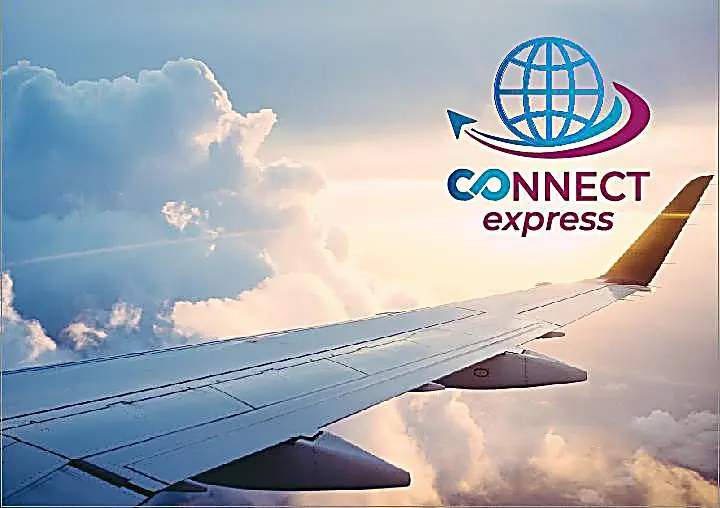
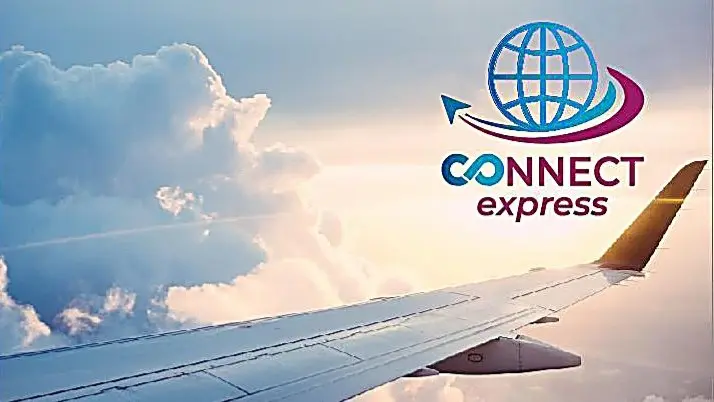
main background

diff --git a/src/components/Footer/Footer.module.css b/src/components/Footer/Footer.module.css
@@ -4,83 +4,6 @@
 
 .footerContainer {
   display: flex;
-  justify-content: space-between;
-  align-items: center;
-  padding: 8px;
-}
-
-.logo {
-  height: 32px;
-  object-fit: contain;
-}
-
-.contacts {
-  display: flex;
-  flex-direction: column;
-  align-items: center;
-  gap: 4px;
-}
-
-.contactItem {
-  display: flex;
-  align-items: center;
-  gap: 8px;
-}
-
-.icon {
-  width: 24px;
-  height: 24px;
-}
-
-.text {
-  font-size: 16px;
-  color: var(--color-input);
-}
-
-@media only screen and (min-width: 768px) {
-  .footerContainer {
-    gap: 8px;
-    padding: 4px 20px;
-  }
-
-  .contacts {
-    flex-direction: row;
-    gap: 16px;
-  }
-
-  .icon {
-    width: 32px;
-    height: 32px;
-  }
-
-  .text {
-    font-size: 18px;
-  }
-}
-
-@media only screen and (min-width: 1440px) {
-  .footerContainer {
-    flex-direction: row;
-    justify-content: space-between;
-    align-items: center;
-    padding: 12px 20px;
-  }
-
-  .icon {
-    width: 40px;
-    height: 40px;
-  }
-
-  .text {
-    font-size: 20px;
-  }
-} */
-.footerSection {
-  background-color: var(--color-background-blue);
-}
-
-.footerContainer {
-  display: flex;
   align-items: center;
   padding: 8px 12px;
   gap: 20px;
@@ -93,22 +16,22 @@
 
 .contacts {
   display: flex;
-  flex-direction: column; /* контакты друг под другом */
-  align-items: flex-start; /* выравнивание по левому краю */
+  flex-direction: column; 
+  align-items: flex-start;
   gap: 4px;
-  margin-left: auto; /* блок контактов к правому краю */
+  margin-left: auto; 
 }
 
 .contactItem {
   display: flex;
   align-items: center;
-  gap: 8px; /* расстояние между иконкой и текстом */
+  gap: 8px;
 }
 
 .icon {
   width: 24px;
   height: 24px;
-  flex-shrink: 0; /* чтобы иконка не сжималась */
+  flex-shrink: 0; 
 }
 
 .text {
@@ -138,6 +61,94 @@
     width: 32px;
     height: 32px;
   }
+  .text {
+    font-size: 18px;
+  }
+} */
+
+.footerSection {
+  background-color: var(--color-background-blue);
+  margin-top: auto;
+}
+
+.footerContainer {
+  display: flex;
+  align-items: center;
+  justify-content: space-between;
+  padding: 8px 12px;
+  gap: 20px;
+  flex-wrap: wrap;
+}
+
+.logo {
+  height: 32px;
+  object-fit: contain;
+}
+
+.contacts {
+  display: flex;
+  flex-direction: column;
+  align-items: flex-start;
+  gap: 4px;
+}
+
+.contactItem {
+  display: flex;
+  align-items: center;
+  gap: 8px;
+}
+
+.icon {
+  width: 24px;
+  height: 24px;
+  flex-shrink: 0;
+}
+
+.text {
+  font-size: 14px;
+  color: var(--color-input);
+  margin: 0;
+}
+
+@media (min-width: 768px) {
+  .footerContainer {
+    padding: 12px 24px;
+    gap: 32px;
+  }
+
+  .contacts {
+    /* flex-direction: row;  */
+    gap: 16px;
+  }
+
+  .logo {
+    height: 36px;
+  }
+
+  .icon {
+    width: 28px;
+    height: 28px;
+  }
+
+  .text {
+    font-size: 16px;
+  }
+}
+
+@media (min-width: 1024px) {
+  .footerContainer {
+    padding: 16px 32px;
+  }
+
+  .logo {
+    height: 40px;
+  }
+
+  .icon {
+    width: 32px;
+    height: 32px;
+  }
+
   .text {
     font-size: 18px;
   }

diff --git a/src/components/Banner/Banner.module.css b/src/components/Banner/Banner.module.css
@@ -1,4 +1,4 @@
-.section {
+/* .section {
   background-image: url("../../assets/images/mainBanner-mobile-with-logo.webp");
   background-size: cover;
   background-position: center;
@@ -18,7 +18,7 @@
   text-align: center;
   color: var(--color-white);
   font-weight: bold;
-  /* -webkit-text-stroke: 2px #1fb4cc; */
+
 
   text-shadow: 3px 3px 0 #1fb4cc, -2px 2px 0 #1fb4cc, 2px -2px 0 #1fb4cc,
     -2px -2px 0 #1fb4cc;
@@ -47,7 +47,6 @@
     background-image: url("../../assets/images/mainBanner-tablet.webp");
     background-size: cover;
     background-position: center;
-    /* padding-left: 64px; */
   }
 }
 
@@ -62,6 +61,80 @@
     background-image: url("../../assets/images/mainBanner.webp");
     background-size: cover;
     background-position: center;
-    /* padding-left: 64px; */
+  }
+} */
+
+.section {
+  /* фон */
+  background-image: url("../../assets/images/mainBanner-mobile-with-logo.webp");
+  background-size: cover;
+  background-position: center;
+  background-repeat: no-repeat;
+
+  min-height: calc(100vh - 56px);
+
+  display: flex;
+  flex-direction: column;
+  justify-content: center;
+  align-items: flex-start;
+
+  padding: 0 16px;
+  color: var(--color-white);
+  text-align: left;
+}
+
+.title {
+  font-size: 2rem;
+  font-weight: bold;
+  /* -webkit-text-stroke: 2px #1fb4cc; */
+  text-shadow: 3px 3px 0 #1fb4cc, -2px 2px 0 #1fb4cc, 2px -2px 0 #1fb4cc,
+    -2px -2px 0 #1fb4cc;
+  margin-bottom: 16px;
+}
+
+.comment {
+  font-weight: 400;
+  font-size: 1rem;
+  line-height: 1.4;
+  color: var(--color-input);
+  padding-bottom: 24px;
+}
+
+/* Tablet */
+@media (min-width: 768px) {
+  .section {
+    background-image: url("../../assets/images/mainBanner-tablet.webp");
+    min-height: calc(100vh - 64px); /* выше header */
+    padding: 0 24px;
+  }
+
+  .title {
+    font-size: 3rem;
+    line-height: 1.2;
+  }
+
+  .comment {
+    font-size: 1.25rem;
+    font-weight: 500;
+    padding-bottom: 30px;
+  }
+}
+
+/* Desktop */
+@media (min-width: 1024px) {
+  .section {
+    background-image: url("../../assets/images/mainBanner.webp");
+    min-height: calc(100vh - 80px); /* учитываем высоту десктопного header */
+    padding: 0 32px;
+  }
+
+  .title {
+    font-size: 4rem;
+  }
+
+  .comment {
+    font-size: 1.5rem;
+    font-weight: 600;
+    padding-bottom: 40px;
   }
 }

diff --git a/src/App.jsx b/src/App.jsx
@@ -18,8 +18,10 @@ import Temperature from "./components/addservices/Temperature.jsx";
 function App() {
   return (
     <Routes>
-      <Route element={<Layout />}>
+      <Route element={<Layout isHome={true} />}>
         <Route path="/" element={<Home />} />
+      </Route>
+      <Route element={<Layout />}>
         <Route path="/services" element={<ServicesPage />} />
         <Route path="/addservices" element={<AddServicesPage />} />
         <Route path="/about" element={<About />} />

diff --git a/src/components/Header/Header.module.css b/src/components/Header/Header.module.css
@@ -2,8 +2,25 @@
   position: sticky;
   top: 0;
   width: 100%;
-  padding: 16px 0;
+  height: 56px;
+  padding: 8px 16px;
   z-index: 1000;
   background-color: var(--color-background);
   box-shadow: 0 2px 4px rgba(0, 0, 0, 0.1);
+  display: flex;
+  align-items: center;
+}
+
+@media (min-width: 768px) {
+  .header {
+    height: 64px;
+    padding: 12px 24px;
+  }
+}
+
+@media (min-width: 1024px) {
+  .header {
+    height: 80px;
+    padding: 16px 32px;
+  }
 }

diff --git a/src/components/Layout/Layout.jsx b/src/components/Layout/Layout.jsx
@@ -4,11 +4,11 @@ import Header from "../Header/Header.jsx";
 import Footer from "../Footer/Footer.jsx";
 import style from "./Layout.module.css";
 
-const Layout = () => {
+const Layout = (isHome) => {
   return (
     <div className={style.layout}>
       <Header />
-      <main className={style.main}>
+      <main className={isHome ? style.mainHome : style.main}>
         <Container>
           <Outlet />
         </Container>

diff --git a/src/components/Layout/Layout.module.css b/src/components/Layout/Layout.module.css
@@ -6,6 +6,26 @@
 
 .main {
   flex: 1;
-  padding-top: 24px;
-  padding-bottom: 24px;
+  display: flex;
+  flex-direction: column;
+  padding-top: 56px;
+}
+
+@media (min-width: 768px) {
+  .main {
+    padding-top: 64px;
+  }
+}
+
+@media (min-width: 1024px) {
+  .main {
+    padding-top: 80px;
+  }
+}
+
+.mainHome {
+  flex: 1;
+  display: flex;
+  flex-direction: column;
+  padding-top: 0;
 }
